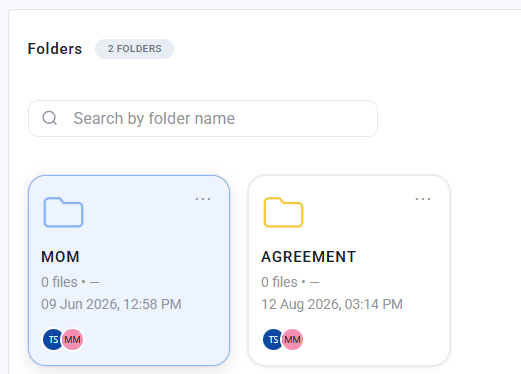
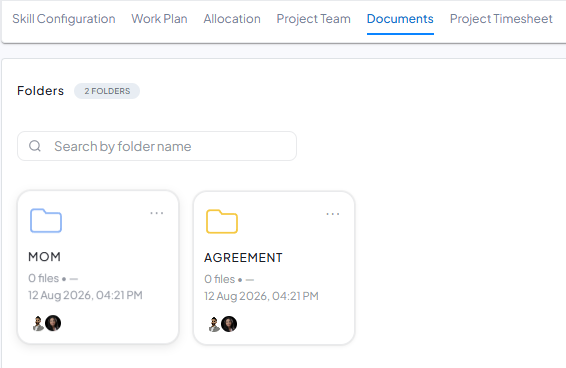
feat: add feature pages for staff assignment, proposal creation, and project tracking with corresponding components

diff --git a/src/components/ProductLine/ProductLine.tsx b/src/components/ProductLine/ProductLine.tsx
@@ -8,6 +8,7 @@ const EASE = [0.22, 1, 0.36, 1] as const
 interface ProductLineProps {
   id: string
   badge: string
+  categoryTitle?: string
   headline: string
   subtitle: string
   modules: ProductModuleCard[]
@@ -20,6 +21,7 @@ interface ProductLineProps {
 function ProductLine({
   id,
   badge,
+  categoryTitle = 'Avyro Project Management',
   headline,
   subtitle,
   modules,
@@ -52,9 +54,14 @@ function ProductLine({
 
       <div className="product-line__container">
         <header className="product-line__intro">
-          <motion.p className="product-line__badge" {...fadeUp(0)}>
-            {badge}
-          </motion.p>
+          <motion.div className="product-line__badge-container" {...fadeUp(0)}>
+            {categoryTitle && (
+              <span className="product-line-project-module">
+                {categoryTitle}
+              </span>
+            )}
+            <span className="product-line__badge">{badge}</span>
+          </motion.div>
 
           <motion.h2
             id={`${id}-heading`}

diff --git a/src/components/ProductLine/ProductLine.css b/src/components/ProductLine/ProductLine.css
@@ -50,18 +50,37 @@
   margin: 0 0 clamp(2rem, 4vw, 2.75rem);
 }
 
+.product-line__badge-container {
+  display: flex;
+  align-items: center;
+  flex-wrap: wrap;
+  gap: 0.625rem 0.75rem;
+  margin-bottom: 1rem;
+}
+
+.product-line-project-module {
+  font-size: clamp(1.25rem, 2.5vw, 1.5rem);
+  font-weight: 600;
+  letter-spacing: -0.025em;
+  color: var(--pl-ink, #0f172a);
+  line-height: 1.25;
+}
+
 .product-line__badge {
   display: inline-flex;
-  margin: 0 0 1rem;
-  padding: 0.375rem 0.75rem;
+  align-items: center;
+  margin: 0;
+  padding: 0.25rem 0.625rem;
   font-family: 'IBM Plex Mono', monospace;
   font-size: 0.6875rem;
   font-weight: 600;
-  letter-spacing: 0.1em;
+  letter-spacing: 0.06em;
   text-transform: uppercase;
-  color: #fff;
-  background: var(--color-navy, #0f172a);
+  color: var(--pl-accent, #1d4ed8);
+  background: rgb(29 78 216 / 0.08);
+  border: 1px solid rgb(29 78 216 / 0.2);
   border-radius: 0.375rem;
+  line-height: 1.3;
 }
 
 .product-line__title {

diff --git a/src/constants/trackProjectsPage.ts b/src/constants/trackProjectsPage.ts
@@ -10,7 +10,7 @@ import type { ShortFeaturePageContent } from './shortFeaturePage'
 import { PRODUCT_ROUTES } from './productRoutes'
 import workPlansImage from '../assets/one-record/one-record-work-plans.png'
 import workplanHero from '../Workplan.png'
-
+import gantchart from '../gantt char.png'
 export const TRACK_PROJECTS_ROUTE = PRODUCT_ROUTES['track-projects']
 
 export const TRACK_PROJECTS_PAGE: ShortFeaturePageContent = {
@@ -29,7 +29,7 @@ export const TRACK_PROJECTS_PAGE: ShortFeaturePageContent = {
       'Managing multiple projects shouldn’t mean chasing status in chats and spreadsheets. Avyro shows progress, milestones, budgets, and project health in one place—so you spot risks early and keep delivery moving.',
     cta: { label: 'Book a demo', href: '/#contact-us' },
     visual: {
-      src: workPlansImage,
+      src: gantchart,
       alt: 'Avyro project tracking view with phases, milestones, and progress',
     },
   },

diff --git a/src/constants/assignStaffPage.ts b/src/constants/assignStaffPage.ts
@@ -10,7 +10,7 @@ import type { ShortFeaturePageContent } from './shortFeaturePage'
 import { PRODUCT_ROUTES } from './productRoutes'
 import resourcingImage from '../assets/one-record/one-record-resourcing.png'
 import workplanHero from '../Workplan.png'
-
+import AssignTask from '../AssignTask copy.png';
 export const ASSIGN_STAFF_ROUTE = PRODUCT_ROUTES['assign-staff']
 
 export const ASSIGN_STAFF_PAGE: ShortFeaturePageContent = {
@@ -29,7 +29,7 @@ export const ASSIGN_STAFF_PAGE: ShortFeaturePageContent = {
       'Projects stay on track when the right people are assigned at the right time. Avyro helps you match team members to project phases based on role, availability, and planned hours—so work stays balanced.',
     cta: { label: 'Book a demo', href: '/#contact-us' },
     visual: {
-      src: resourcingImage,
+      src: AssignTask,
       alt: 'Avyro staffing view with people assigned across project phases',
     },
   },

diff --git a/src/constants/createProposalsPage.ts b/src/constants/createProposalsPage.ts
@@ -1,14 +1,14 @@
-import {
+o againimport {
   CheckCircle2,
-  FileText,
-  Layers3,
-  LayoutTemplate,
-  PencilLine,
-  Sparkles,
+    FileText,
+    Layers3,
+    LayoutTemplate,
+    PencilLine,
+    Sparkles,
 } from 'lucide-react'
 import type { ShortFeaturePageContent } from './shortFeaturePage'
 import { PRODUCT_ROUTES } from './productRoutes'
-import proposalsImage from '../Proposals.png'
+import proposalsImage from '../porposalCreate.png'
 import crmProposalsImage from '../avyro-crm-proposals.png'
 
 export const CREATE_PROPOSALS_ROUTE = PRODUCT_ROUTES['create-proposals']

diff --git a/src/components/ProductDrive/ProductDrive.tsx b/src/components/ProductDrive/ProductDrive.tsx
@@ -12,6 +12,7 @@ function ProductDrive() {
   return (
     <ProductLine
       id="avyro-drive"
+      categoryTitle="Avyro Project Management"
       badge={PRODUCT_DRIVE_BADGE}
       headline={PRODUCT_DRIVE_HEADLINE}
       subtitle={PRODUCT_DRIVE_SUBTITLE}

diff --git a/src/components/ProductX/ProductX.tsx b/src/components/ProductX/ProductX.tsx
@@ -12,6 +12,7 @@ function ProductX() {
   return (
     <ProductLine
       id="avyro-x"
+      categoryTitle="Avyro Enterprise Management"
       badge={PRODUCT_X_BADGE}
       headline={PRODUCT_X_HEADLINE}
       subtitle={PRODUCT_X_SUBTITLE}
